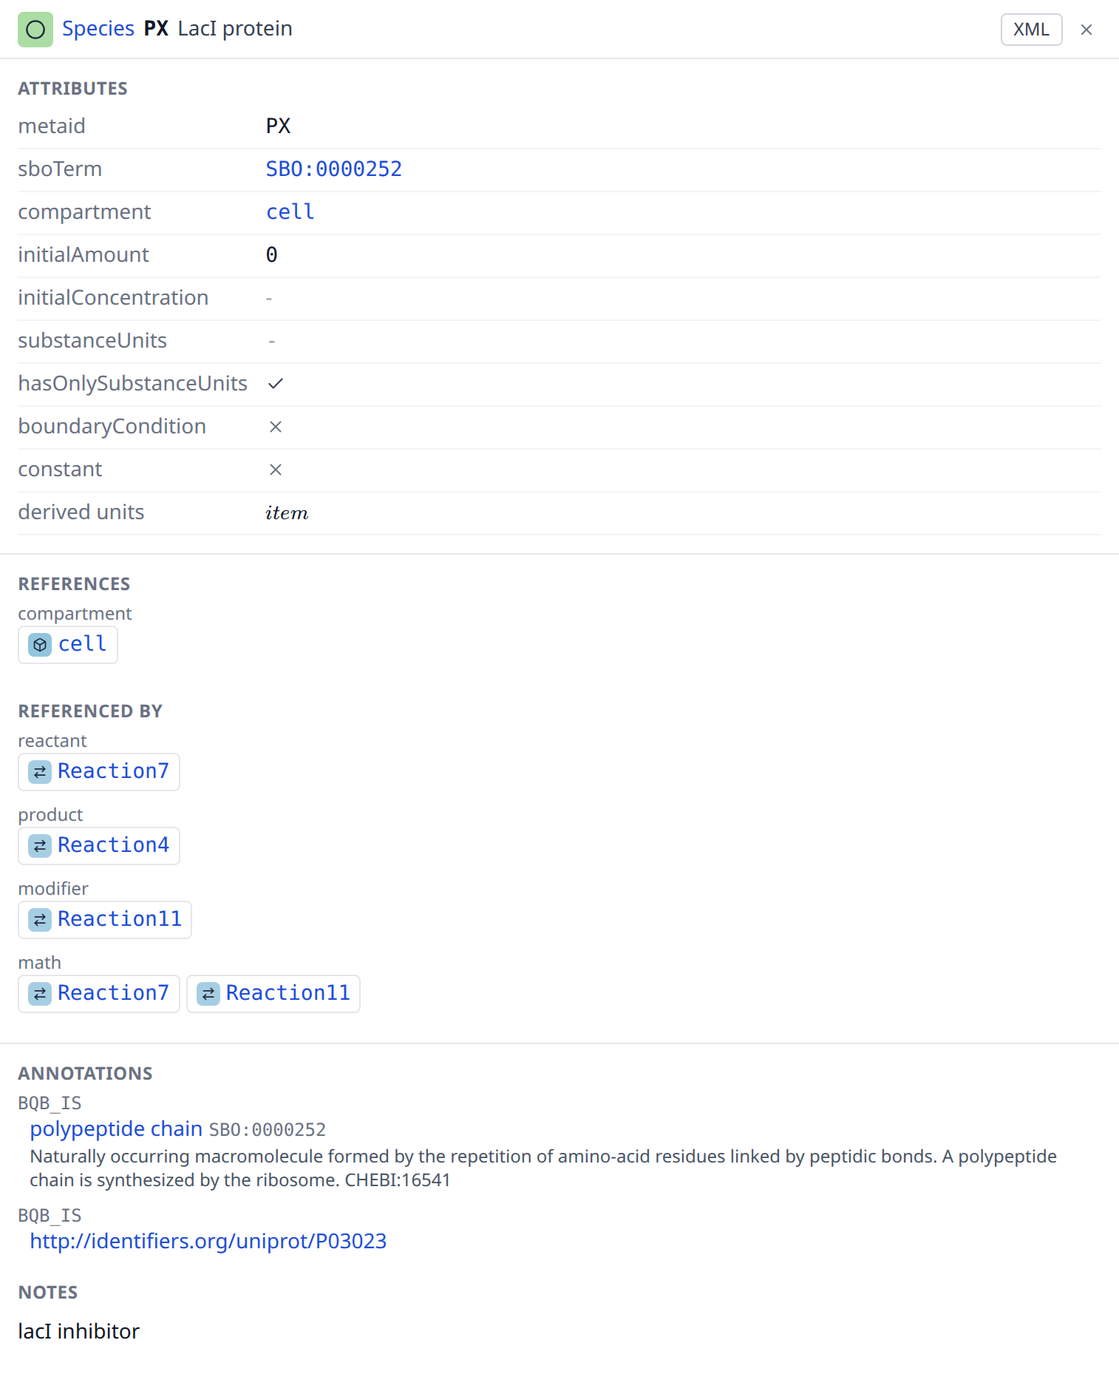
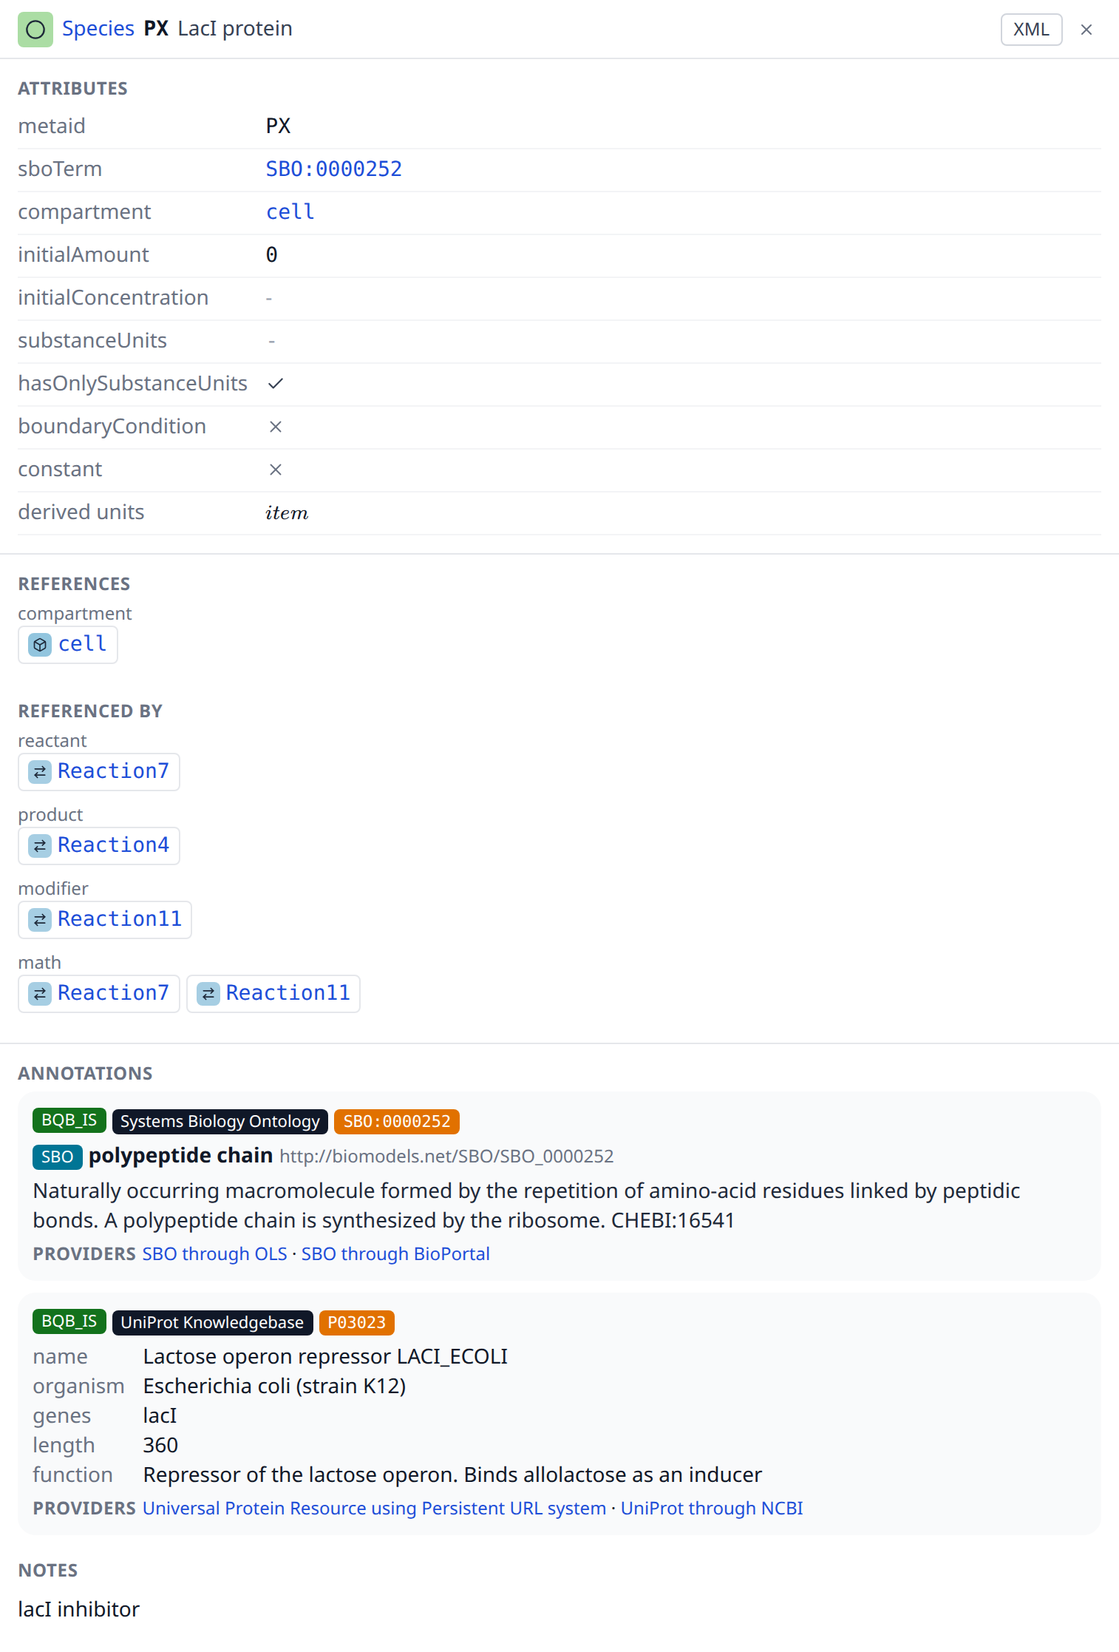
Documentation and screenshots of the annotation cards

diff --git a/frontend/CLAUDE.md b/frontend/CLAUDE.md
@@ -4,6 +4,6 @@ The architecture of the Vue frontend. The commands, the conventions and the erro
 
 `markdown-it` renders the descriptions of the glossary in the help dialog and `report/helpMarkdown.ts` alone imports it, so that it is loaded with the first dialog and with no other page. The element tables (sorting, selection, windowing above 200 rows), the dropdowns and the `v-tooltip` directive are own code.
 
-**`frontend/src`.** `api/` is the fetch client with the error contract (`ApiError`) and the report types, generated into `types/report.ts` by `npm run types`, and `annotations.ts`, the resolve queue of the annotation resources: one request per resource, at most `MAX_CONCURRENT_RESOLVES` in flight, a queued resolve is dropped once all its callers abort; it also defines `MAX_AUTO_RESOLVES`, the element-wide automatic resolve budget, which `components/misc/CvTermList.vue` applies, resolving at most that many of an element's shown resources before a "show all" or "resolve all" click. `stores/` are the Pinia stores of the report and the examples. `report/` holds `ReportIndex` (every element by pk, the `lists` of every element among them, the edges of the link graph; one per entry, `ReportIndex.forEntries` connects them so that an edge with `targetEntry` is an `ElementRef{pk, entry}` on both of its ends, kept apart from the edges inside the entry), `search` and `query` (the search and the view state of the report page kept in the route query, `help` among them, the key of the open explanation, which `view.ts` opens with `openHelp`, closes with `closeHelp(mode)` and resolves to a route with `helpRoute`), `glossaryDetails.ts` (the types of an entry of `glossary-details.json` and `loadGlossaryDetails()`, one cached promise of the fetch of its url, which the build emits as a file of its own (`?url`) so that no chunk carries it, dropped when it rejects so that the next dialog tries again), `helpMarkdown.ts` (`renderHelpMarkdown(markdown, hrefOf)`: `markdown-it` with html and linkify off through an own DOMPurify instance, `glossary:` links rendered as `<a data-help-key>` with the href `hrefOf` gives them, every other scheme than `https:`, `http:` and `mailto:` refused and rendered as its text), `columns/` (the table columns per element type), `notes.ts` (the notes sanitised with DOMPurify down to the markup real notes use), `latex.ts` (KaTeX rendering, which imports the KaTeX stylesheet and `assets/latex.css` so that only the report page carries them, a formula longer than `MAX_LATEX_LENGTH` shows as text until a "render formula" click renders it on demand, an option the inspector's display mode alone offers) and `limitedList.ts` (the links, the rows of a nested table, the CV terms and their resources in the inspector show `LIST_LIMIT` entries before a "show all"). `docs.ts` holds `DOCS_URL`, the url of the documentation site, apart from `report/glossary.ts` so that the app bar and the footer of the home and examples pages do not pull the glossary into their chunks. `analytics.ts` builds the vue-gtag settings of the production build, a page view reports the path of the route without its query. `pages/` are the routed pages: home (upload, url, paste), examples, report; `/report?local=<token>` is the report of the local server of `sbml4humans.show`, which the page pings while it is open. `components/` is split into `layout/` (app bar, split panes, states), `input/` (the upload forms), `report/` (context bar, type bar, search, element tables), `inspector/` (attributes per type, links, annotations), `help/` and `misc/` (math, units, links, notes, xml, shared across the other groups). `help/` is the explanation of one entry: `HelpDialog.vue`, mounted once by the report page and driven by `help`, a native `<dialog>` with `showModal()` whose parts are `HelpSection`, `HelpTechnical`, `HelpRules`, `HelpAttributes` and `HelpMarkdown` (the async import which brings `markdown-it`, started with the details and answered by `HelpDescriptionText.vue`, the description as text, where its chunk cannot be loaded); `HelpLink.vue` is the link of the dialog itself (a real href, a plain left click handled in place, everything else left to the browser, `plainClick.ts`), `HelpLabel.vue` the label of the report which opens its entry and keeps its tooltip, `HelpButton.vue` the help icon for a place whose click is taken; `words.ts` holds the words which are the chrome of the dialog and not of the glossary. The labels which open it are the label of an attribute row, the type in the header of the inspector, the heading of a link group, the header of a column of a nested table (`HelpLabel`) and, as an icon, the header of a column of an element table, which sorts, and the heading of a section (`HelpButton`); the type bar, the element links and the type marks open nothing. The header of the inspector no longer links the reference page, the footer of the dialog does. A `ListOf` has no table: it is linked from the row `lists` of its owner in `inspector/AttributesColumn.vue` and, a list of the model, from the heading of the table of its elements in `report/ElementSection.vue`. `data/` holds the order, labels, colours and icons of the SBML element types and the edge kinds.
+**`frontend/src`.** `api/` is the fetch client with the error contract (`ApiError`) and the report types, generated into `types/report.ts` by `npm run types`, and `annotations.ts`, the resolve queue of the annotation resources: one request per resource, at most `MAX_CONCURRENT_RESOLVES` in flight, a queued resolve is dropped once all its callers abort; it also defines `MAX_AUTO_RESOLVES`, the element-wide automatic resolve budget, which `components/misc/CvTermList.vue` applies, resolving at most that many of an element's shown resources before a "show all" or "resolve all" click. The resource is the typed `AnnotationResource` of `types/annotation.ts` (generated from `schema/annotation.schema.json` by `npm run types`), fetched by `getAnnotationResource` of `api/client.ts`; `annotationStructureUrl(chebi)` is the url of the svg of a ChEBI structure, which the card loads as an `<img>` and drops on an error. `components/misc/CvTermResourceList.vue` renders one `components/misc/AnnotationCard.vue` per resource with the state of its resolve, `AnnotationCardState`: `idle` (not requested, beyond the resolve budget), `loading`, `resolved` and `failed` (the request failed, the card says the resource could not be resolved). The card is cy3sbml like: the qualifier, the collection and the identifier as badges, which it shows in every state, the identifier always a link (the url of the resolved resource, else the resource or its identifiers.org url); then the warnings and errors, the OLS term (ontology, label, IRI, the first `SYNONYM_LIMIT` synonyms before a "show all", description), the ChEBI structure next to formula, charge and mass, the UniProt rows, the cross references and the providers. Every label is a concept of the glossary read with `conceptEntry(key)` (`annotation*`, `chebi*`, `uniprot*`), all text is Vue text, never `v-html`. `stores/` are the Pinia stores of the report and the examples. `report/` holds `ReportIndex` (every element by pk, the `lists` of every element among them, the edges of the link graph; one per entry, `ReportIndex.forEntries` connects them so that an edge with `targetEntry` is an `ElementRef{pk, entry}` on both of its ends, kept apart from the edges inside the entry), `search` and `query` (the search and the view state of the report page kept in the route query, `help` among them, the key of the open explanation, which `view.ts` opens with `openHelp`, closes with `closeHelp(mode)` and resolves to a route with `helpRoute`), `glossaryDetails.ts` (the types of an entry of `glossary-details.json` and `loadGlossaryDetails()`, one cached promise of the fetch of its url, which the build emits as a file of its own (`?url`) so that no chunk carries it, dropped when it rejects so that the next dialog tries again), `helpMarkdown.ts` (`renderHelpMarkdown(markdown, hrefOf)`: `markdown-it` with html and linkify off through an own DOMPurify instance, `glossary:` links rendered as `<a data-help-key>` with the href `hrefOf` gives them, every other scheme than `https:`, `http:` and `mailto:` refused and rendered as its text), `columns/` (the table columns per element type), `notes.ts` (the notes sanitised with DOMPurify down to the markup real notes use), `latex.ts` (KaTeX rendering, which imports the KaTeX stylesheet and `assets/latex.css` so that only the report page carries them, a formula longer than `MAX_LATEX_LENGTH` shows as text until a "render formula" click renders it on demand, an option the inspector's display mode alone offers) and `limitedList.ts` (the links, the rows of a nested table, the CV terms and their resources in the inspector show `LIST_LIMIT` entries before a "show all"). `docs.ts` holds `DOCS_URL`, the url of the documentation site, apart from `report/glossary.ts` so that the app bar and the footer of the home and examples pages do not pull the glossary into their chunks. `analytics.ts` builds the vue-gtag settings of the production build, a page view reports the path of the route without its query. `pages/` are the routed pages: home (upload, url, paste), examples, report; `/report?local=<token>` is the report of the local server of `sbml4humans.show`, which the page pings while it is open. `components/` is split into `layout/` (app bar, split panes, states), `input/` (the upload forms), `report/` (context bar, type bar, search, element tables), `inspector/` (attributes per type, links, annotations), `help/` and `misc/` (math, units, links, notes, xml, shared across the other groups). `help/` is the explanation of one entry: `HelpDialog.vue`, mounted once by the report page and driven by `help`, a native `<dialog>` with `showModal()` whose parts are `HelpSection`, `HelpTechnical`, `HelpRules`, `HelpAttributes` and `HelpMarkdown` (the async import which brings `markdown-it`, started with the details and answered by `HelpDescriptionText.vue`, the description as text, where its chunk cannot be loaded); `HelpLink.vue` is the link of the dialog itself (a real href, a plain left click handled in place, everything else left to the browser, `plainClick.ts`), `HelpLabel.vue` the label of the report which opens its entry and keeps its tooltip, `HelpButton.vue` the help icon for a place whose click is taken; `words.ts` holds the words which are the chrome of the dialog and not of the glossary. The labels which open it are the label of an attribute row, the type in the header of the inspector, the heading of a link group, the header of a column of a nested table (`HelpLabel`) and, as an icon, the header of a column of an element table, which sorts, and the heading of a section (`HelpButton`); the type bar, the element links and the type marks open nothing. The header of the inspector no longer links the reference page, the footer of the dialog does. A `ListOf` has no table: it is linked from the row `lists` of its owner in `inspector/AttributesColumn.vue` and, a list of the model, from the heading of the table of its elements in `report/ElementSection.vue`. `data/` holds the order, labels, colours and icons of the SBML element types and the edge kinds.
 
 **The narrow window.** One breakpoint, the `md` of Tailwind (768 px): the styles of a phone are `max-md:` variants, and what is not a style asks `useNarrow()` of `src/narrow.ts` (one `matchMedia` listener for the application). On a narrow window `pages/ReportPage.vue` leaves `SplitPane` out and shows `InspectorPanel` in place of `report/ReportTables.vue` (the tables of the report in their one scroll, kept mounted with `v-show` so that their scroll position survives), opens without the model selected, hides the type bar while an element is selected and leaves the dense footer out; the inspector shows `inspector-back` in place of `inspector-close`. `TypeBar.vue` holds the types behind `type-bar-toggle`, `AppBar.vue` wraps the search into a row of its own and holds its links behind `app-bar-menu` below `lg`. At every width `ElementTable.vue` pins the first column, when it is the id, to the left edge of its scroll (`pinned`), one pixel beyond the edge and with the line at its right edge only while the table is scrolled sideways. `v-tooltip` shows nothing for the `mouseenter` a touch is followed by, nor for the `mouseenter` of a pointer which rests while the page changes under it (a closed dialog, a pane which opens), until that pointer moves. The end to end tests of the narrow window are `tests/e2e/mobile.spec.ts`, which the `mobile` project of Playwright (Pixel 7) alone runs.

diff --git a/backend/CLAUDE.md b/backend/CLAUDE.md
@@ -6,6 +6,8 @@ The architecture of the `sbml4humans` package, the paths are relative to `backen
 
 **`limits.py`, `download.py` - what a request may make the server do.** `limits.py` holds the limits of the content of a request (`MAX_CONTENT_SIZE` of 100 MB, the `client_max_body_size` of nginx, for the body, the download, the decompressed gzip and the uncompressed archive, `MAX_ARCHIVE_ENTRIES`, `MAX_COMPRESSION_RATIO`, the download deadline and `MAX_REDIRECTS`) and `ContentTooLargeError`; the modules read them at the time they apply them, so that a test lowers them with `monkeypatch`. `download.download(url)` is the download of `GET /api/url`: http and https only, redirects followed one by one, and the connection is made by `PublicNetworkBackend`, an httpcore network backend which resolves the host, refuses it unless every address is public (`is_public`: no loopback, private, link local, shared, reserved, multicast or unspecified address, also not embedded in an IPv6 address) and connects to the address it checked, so that DNS rebinding finds no gap between check and connection. `SBML4HUMANS_ALLOW_PRIVATE_URLS=1` in the environment of the server allows every address, for the end to end tests alone, never set it for a server others reach.
 
+**`annotations.py` - the annotation resources.** `resolve_resource(resource)` builds the typed `AnnotationResource` of one resource of an annotation (a url of identifiers.org or a MIRIAM urn) from `RDFAnnotationData` of pymetadata: the `collection` (prefix, name, homepage) and the `providers` of the registry of identifiers.org, the `identifier`, its `url` at the primary provider and `patternMatch`, the `ontology` term of OLS (label, IRI, ontology, OLS url, description, synonyms, cross references; the html tags some terms carry dropped by `_plain`), and `chebi` (formula, charge, mass, whether a structure exists, `ChebiQuery`) or `uniprot` (name, entry, organism, genes, length, function, `UniprotQuery`) for those collections; an unknown collection or a malformed resource raises `ValueError`, a term a web service does not know is a warning, a failed web service an error. `ResourceCache` (one per process, `resource_cache()`) sits in front of the disk cache of pymetadata: a resolved resource lives 24 hours, one with warnings 10 minutes, one with errors is not kept, at most 5,000 entries (LRU), and concurrent requests of one resource share one lookup (`Future`), every waiter gets the result or the exception of the owner. The disk cache of pymetadata keeps the answers of OLS, ChEBI and UniProt 30 days and those of the registry one day, in `SBML4HUMANS_CACHE` (`configure_cache()` at import, production volume `cache`) or `~/.cache/pymetadata`. `MAX_RESOURCE_LENGTH` (2,000) limits the resource the api resolves and `CHEBI_ID` is the form of the id the structure endpoint accepts; the structure is the svg of `ChebiQuery.structure`, served with a sandboxing `Content-Security-Policy` and cacheable for 30 days, a 404 is `no-store`.
+
 **`model.py`, `sbmlinfo.py`, `links.py` - the report.** `model.py` is the pydantic data model: one class per SBML object with the attributes of the specification (`Species`, `Reaction` with `SpeciesReference` and `KineticLaw`, the comp and fbc objects), `Model` with the SBML lists (`list_of_species`, ...), `Report{document, models, external_model_definitions, link_graph}`. The elements of a list stay in these fields; a ListOf container which states something of its own (a metaid, an SBO term, notes, an annotation, an id or a name) is a `ListOf{element, size}` in the `lists` of the element which owns it, with the list without its elements as its `xml`, and a plain list is not in the report. Python is snake_case, JSON camelCase (`model_dump(mode="json", by_alias=True)`). `sbmlinfo.SBMLDocumentInfo` walks the libsbml document and builds the objects, math as `Math{latex, formula}` (`mathml.py`, the xslt stylesheets compiled once per thread, since an lxml `XSLT` must not be shared between the threads of the threadpool) and units as latex (`units.py`, the rendering of a unit cached by its four numbers), and records the symbols of every math. `links.build_link_graph` turns the report into `LinkGraph{nodes, edges}`: every SBase is a node with `pk = "<model id>/<type>:<id>"`, every reference (compartment, reactant, variable, units, math symbols, modelRef, port, flux bounds, ...) an `Edge{source, target, kind}` from the referencing to the referenced object, a `ListOf` a node which its owner names by a `listOf` edge and at which a comp reference by `metaIdRef` or `idRef` may end; unresolvable references are logged, never edges. A pk is local to one entry of an archive. `external.ExternalModels` resolves the comp `ExternalModelDefinition`s of all entries against each other (`resolution{status, entry, model, md5Matches}`, nothing is ever fetched), and `links.build_link_graphs` builds the graphs of all entries together, so that a replacement, a deletion or a port which reaches into an external model ends at the element of the other entry, as an edge with `targetEntry`. `schema.py` writes the JSON schemas of `ReportResponse` and of `AnnotationResource` to `frontend/src/schema/report.schema.json` and `annotation.schema.json`, run it after every model change (the CI diffs it).
 
 **`report.py` - the archive layer.** `report_for_path`/`report_for_bytes` accept SBML (plain or gzipped) and COMBINE archives (omex, one report per SBML entry of the manifest) and wrap the `Report` of every SBML entry with the manifest into a `ReportResponse`. The entries of an archive are in the order of its manifest (pymetadata 0.6.4 or later), which is the order of the manifest and of the reports of a response. The reports are built first and linked together afterwards. The archive of a report is extracted into a temporary directory of pymetadata's `Omex`, which is used as a context manager, so that nothing of a request stays on the server. The content of a path which is not trusted is read within `limits.py`: gzip is decompressed in chunks up to the limit, and an archive is checked for the number, the stated size and the compression ratio of its entries before it is extracted. `report_for_path(path, trusted=True)` also reads the files next to a single SBML file which its external model definitions name, as further entries; it is set for the shipped examples only and never for a path which holds the content of a request (upload, url, pasted content).

diff --git a/docs/report.md b/docs/report.md
@@ -85,9 +85,15 @@ An element which the file nests in another is a link in the row which shows it, 
 
 **Annotations** shows the metadata of the element.
 
-![The annotations of a species, with three of its resources resolved to their names](images/inspector-annotations.png)
+![The annotations of a species, one card per resource, with the term of the Systems Biology Ontology, the compound of ChEBI with its structure and the term of the NCI Thesaurus](images/inspector-annotations.png)
 
-The annotations themselves are the controlled vocabulary terms of the element, one block per term, headed by the qualifier of that term, with its resources below it. An element with two terms of the same qualifier therefore shows two blocks under the same heading, and a term which further terms qualify, which the specification allows at any depth, shows them indented below its resources. Each resource is a link to the entry it identifies, and the report asks its backend what the entry is, so that a resource shows the name of the molecule, of the pathway or of the publication instead of an identifier alone. A term of the Systems Biology Ontology which the element carries is listed here as well. Long lists of terms and of resources are cut off, with one button which shows the rest and one which resolves the rest.
+The annotations themselves are the controlled vocabulary terms of the element, one block per term, and a term shows one card per resource. Every card starts with three badges: the [qualifier](reference/concepts.md#qualifier) of the term, which says how the element relates to the resource, the [collection](reference/concepts.md#collection) of identifiers.org the resource belongs to, a link to the home page of the collection, and the [identifier](reference/concepts.md#identifier) of the entry, a link to the entry at the primary provider of the collection. A term which further terms qualify, which the specification allows at any depth, shows them indented below its cards. A term of the Systems Biology Ontology which the element carries is listed here as well.
+
+Below the badges a card shows what the entry is. A term of an ontology shows its [ontology](reference/concepts.md#ontology), its label and its IRI, its first five [synonyms](reference/concepts.md#synonyms) with the rest behind "show all", its description and its [cross references](reference/concepts.md#cross-references) to other databases. A compound of ChEBI adds its structure, its [formula](reference/concepts.md#formula), its [charge](reference/concepts.md#charge) and its [mass](reference/concepts.md#mass), so that the charge and the formula a model assumes for a species can be compared with the compound it names. A protein of UniProt shows its [name](reference/concepts.md#name), its [organism](reference/concepts.md#organism), its [genes](reference/concepts.md#genes), the [length](reference/concepts.md#length) of its sequence and its [function](reference/concepts.md#function). The last line of every card lists the [providers](reference/concepts.md#providers) of the collection, the other web sites which show the entry. Every label of a card opens its explanation.
+
+The report does not carry this information, it asks its backend for it when the card is shown: the collection, the identifier and the providers come from the registry of [identifiers.org](https://identifiers.org), a term of an ontology from the [Ontology Lookup Service](https://www.ebi.ac.uk/ols4) of the EMBL-EBI, a compound from [ChEBI](https://www.ebi.ac.uk/chebi/) and a protein from [UniProt](https://www.uniprot.org/). The server keeps a resolved resource for a day, and the answers of these services for 30 days on disk (the registry for a day), so that a resource is not looked up again with every report; the browser keeps a resource for a day and a structure for 30 days. A card shows its badges at once and fills in while the backend answers, and the identifier is always a link to the entry, also where nothing could be resolved.
+
+A card says when something is wrong with its resource: a warning below the badges says that the web service does not know the term, that a resource is no url of identifiers.org and has no collection, or that the identifier does not match the pattern of its collection, and a resource whose service did not answer says that it could not be resolved. Long lists of terms and of resources are cut off, with one button which shows the rest and one which resolves the rest: the cards of an element resolve on their own up to 100 resources, so that a reaction of a genome scale model with hundreds of them does not send hundreds of requests.
 
 The notes of the element follow where it has any, rendered as the XHTML the author wrote, and the history of the SBML encoding last: who created it, with which organization and mail address, when it was created and when it was modified.
 
